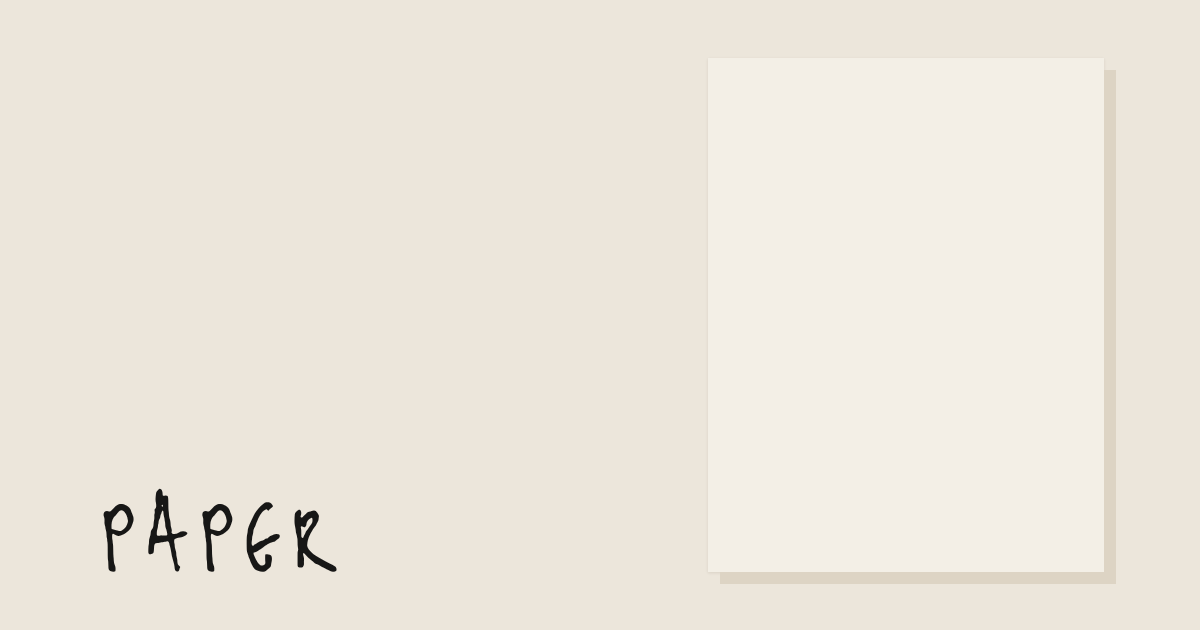
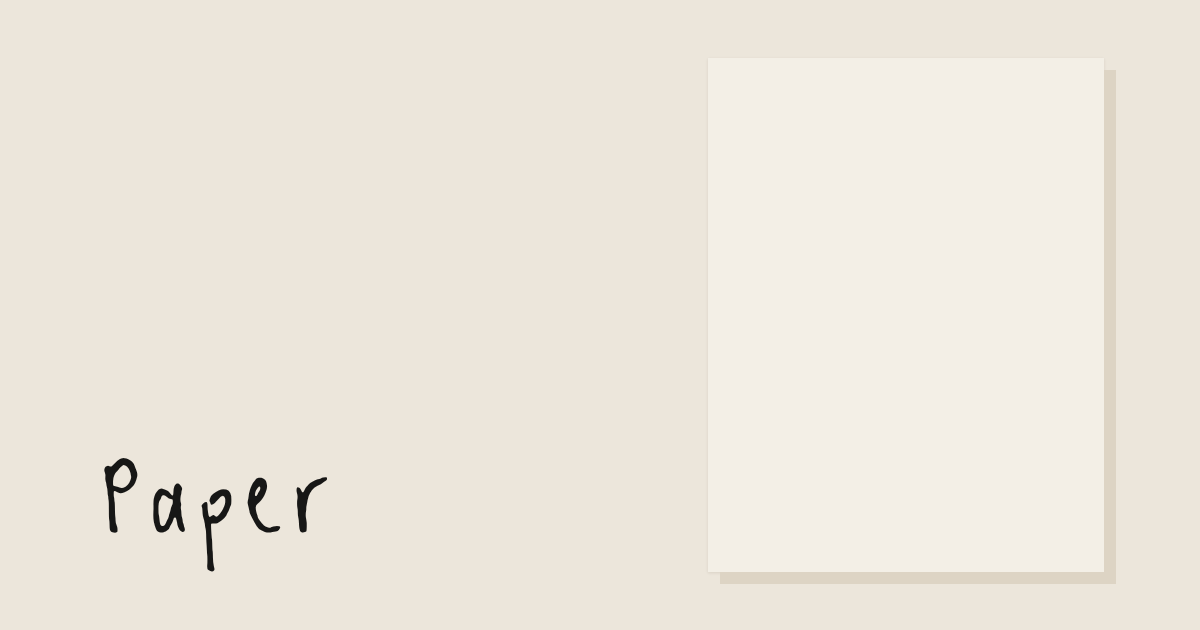
Link preview: "Paper" again, not in capitals, and a tenth bigger
Claude-Session: https://claude.ai/code/session_01GtdkSYJLahZBiaVRCGKpMt

Changed region(s): [[0.0617, 0.7238, 0.2775, 0.9048]]

diff --git a/app/web/download.html b/app/web/download.html
@@ -4,7 +4,7 @@
 <meta charset="utf-8">
 <meta name="viewport" content="width=device-width, initial-scale=1">
 <title>Paper App for Mac</title>
-<!-- the link preview in Messages, Slack and the like: a blank sheet on the right of the desk (a flat offset shadow behind it), "PAPER" handwritten at the bottom left -->
+<!-- the link preview in Messages, Slack and the like: a blank sheet on the right of the desk (a flat offset shadow behind it), "Paper" handwritten at the bottom left -->
 <meta name="description" content="A surface for writers.">
 <meta property="og:type" content="website">
 <meta property="og:site_name" content="Paper">
@@ -14,7 +14,7 @@
 <meta property="og:image" content="https://paperwrite.space/assets/og.png">
 <meta property="og:image:width" content="1200">
 <meta property="og:image:height" content="630">
-<meta property="og:image:alt" content="A blank sheet of paper on the right of a desk, with &quot;PAPER&quot; handwritten at the bottom left">
+<meta property="og:image:alt" content="A blank sheet of paper on the right of a desk, with &quot;Paper&quot; handwritten at the bottom left">
 <meta name="twitter:card" content="summary_large_image">
 <meta name="theme-color" content="#f3efe6">
 <link rel="icon" type="image/png" href="assets/favicon.png">

diff --git a/app/index.html b/app/index.html
@@ -4,7 +4,7 @@
 <meta charset="utf-8">
 <meta name="viewport" content="width=device-width, initial-scale=1">
 <title>Paper</title>
-<!-- the link preview in Messages, Slack and the like: a blank sheet on the right of the desk (a flat offset shadow behind it), "PAPER" handwritten at the bottom left -->
+<!-- the link preview in Messages, Slack and the like: a blank sheet on the right of the desk (a flat offset shadow behind it), "Paper" handwritten at the bottom left -->
 <meta name="description" content="A surface for writers.">
 <meta property="og:type" content="website">
 <meta property="og:site_name" content="Paper">
@@ -14,7 +14,7 @@
 <meta property="og:image" content="https://paperwrite.space/assets/og.png">
 <meta property="og:image:width" content="1200">
 <meta property="og:image:height" content="630">
-<meta property="og:image:alt" content="A blank sheet of paper on the right of a desk, with &quot;PAPER&quot; handwritten at the bottom left">
+<meta property="og:image:alt" content="A blank sheet of paper on the right of a desk, with &quot;Paper&quot; handwritten at the bottom left">
 <meta name="twitter:card" content="summary_large_image">
 <meta name="theme-color" content="#f3efe6">
 <meta name="apple-mobile-web-app-capable" content="yes">
